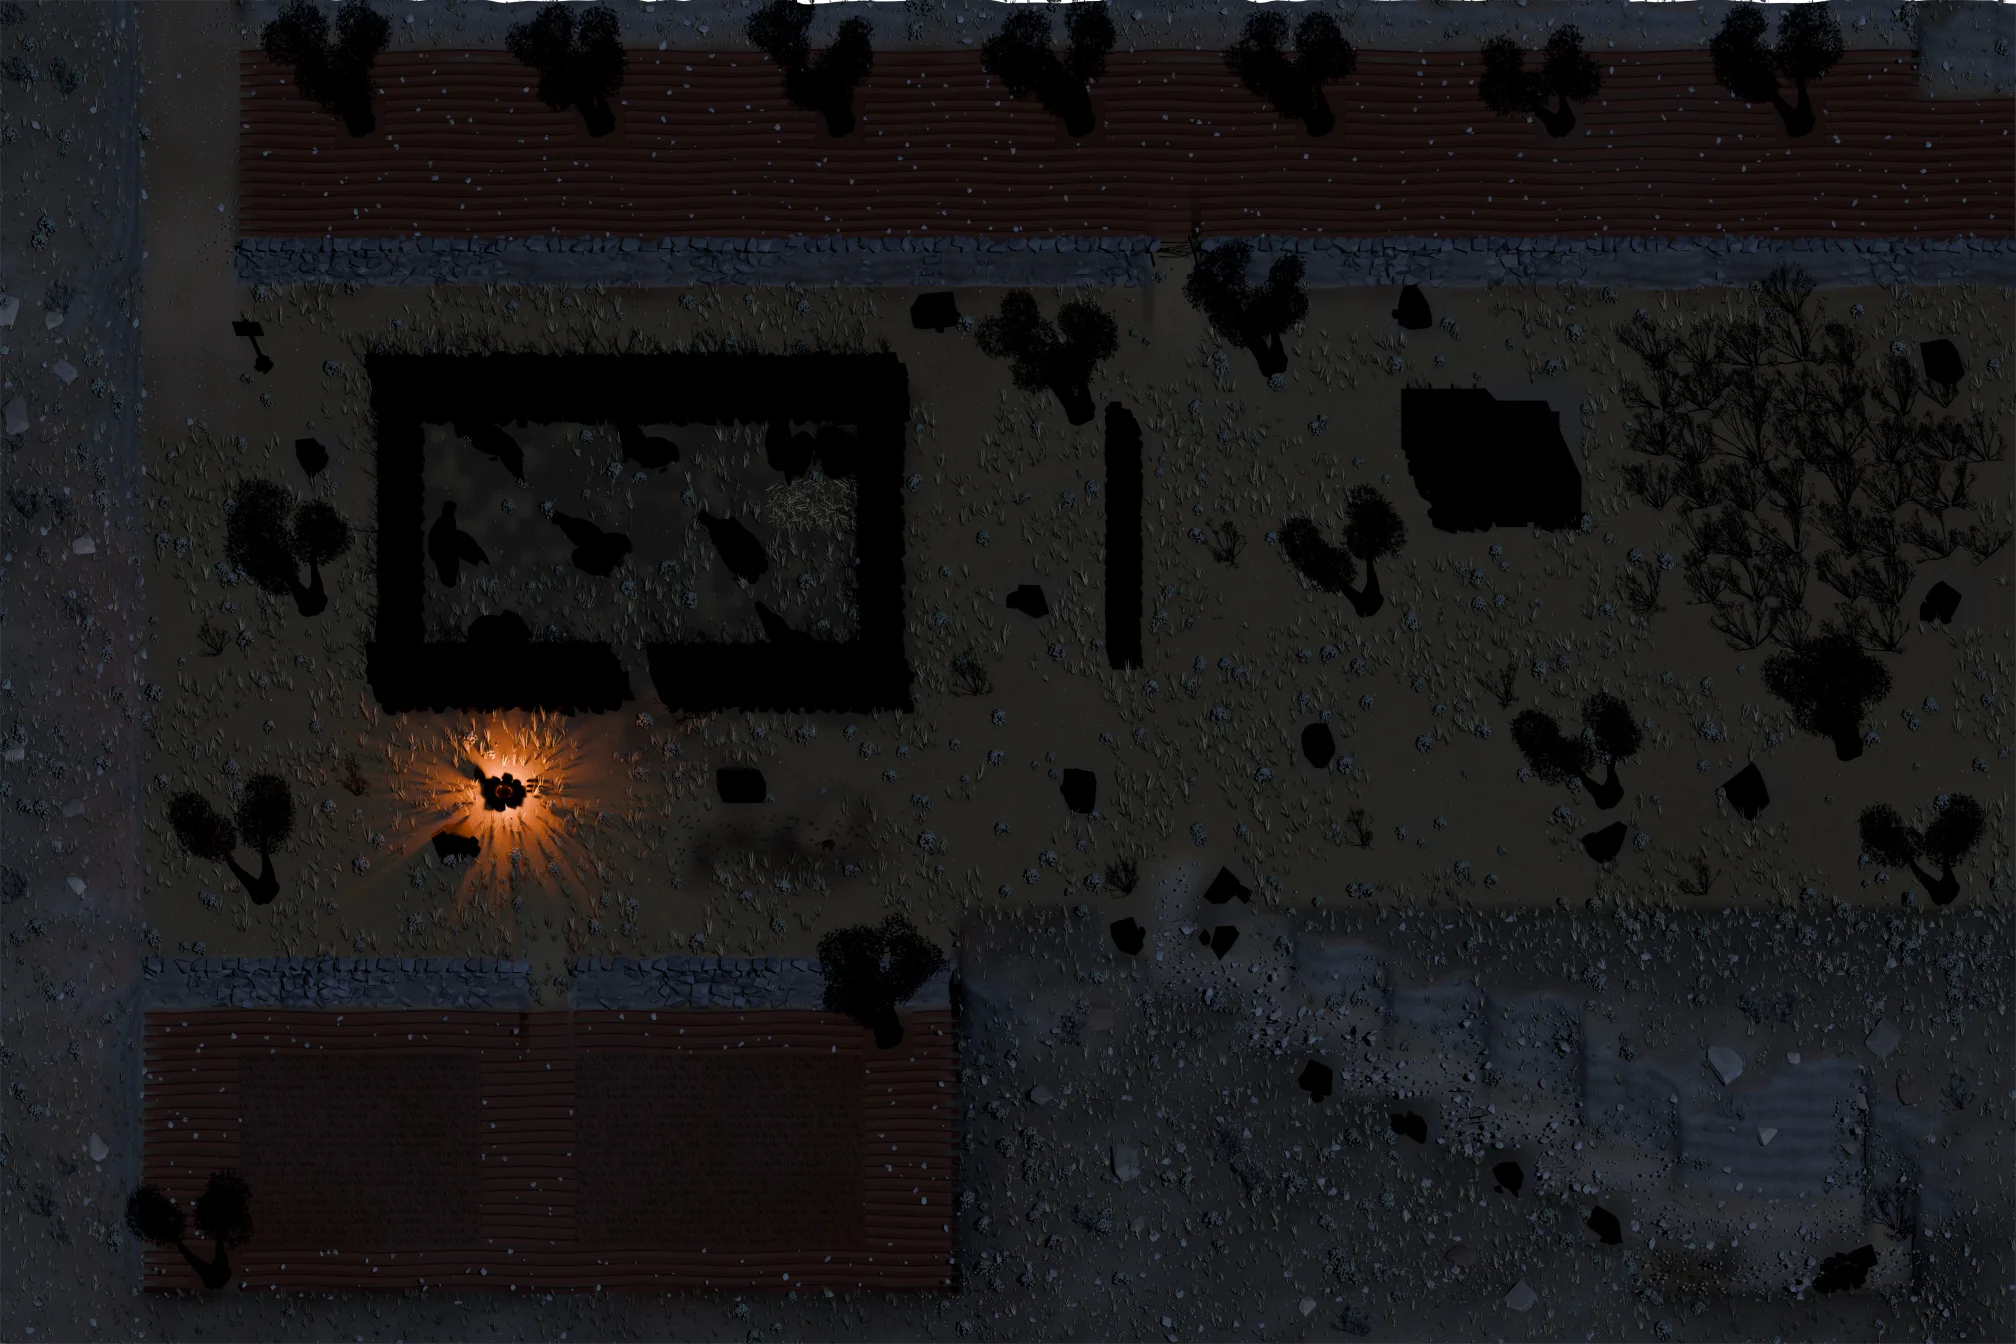
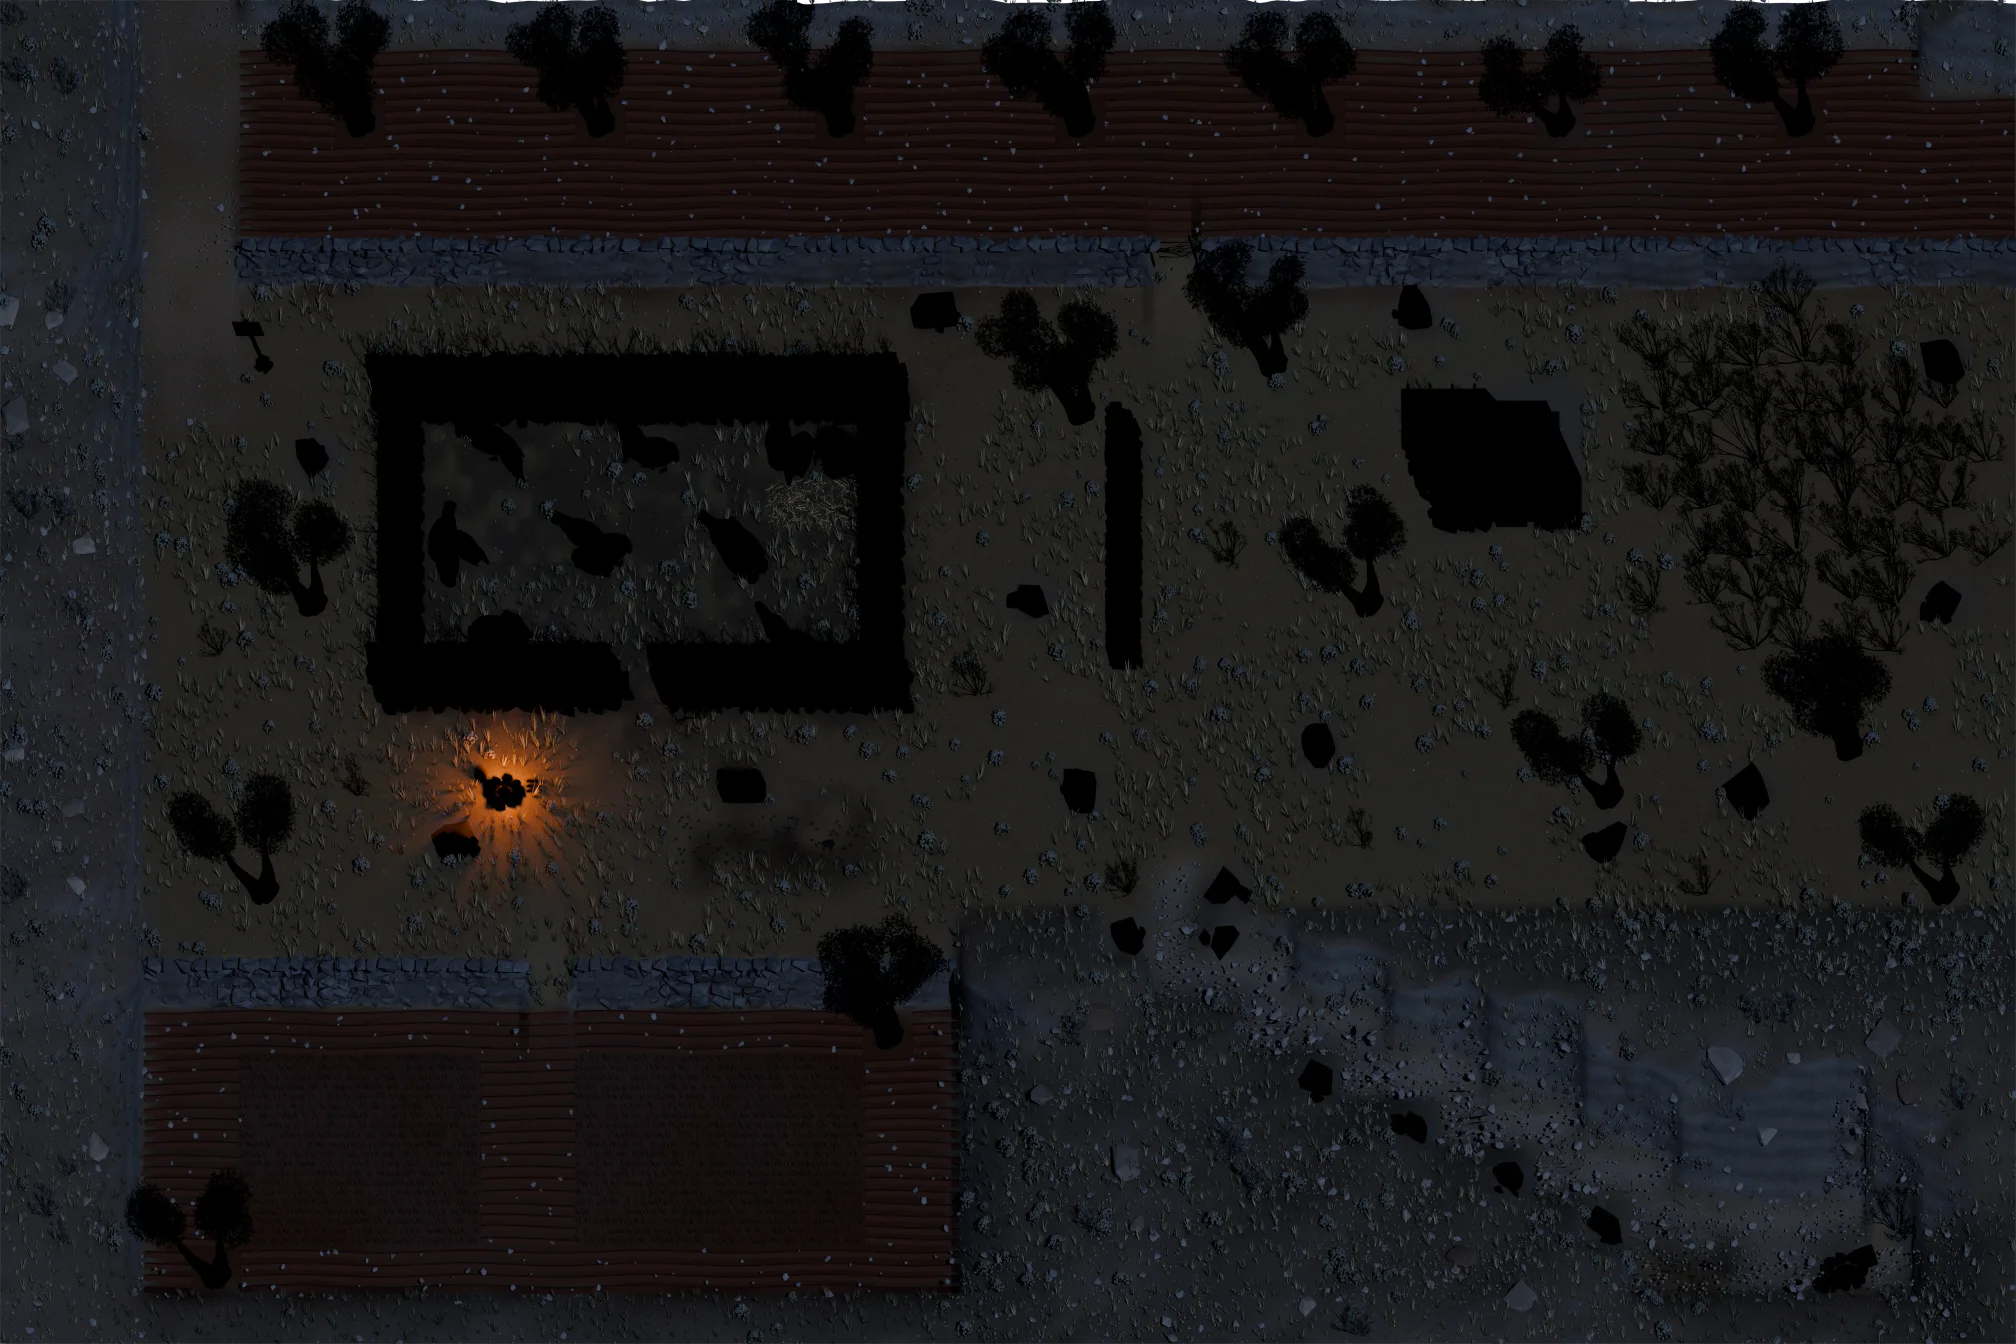
fix(art): a dimmer night fire in the shepherds' fields
The campfire's light was baked at night's exposure (+2.2 EV), so its ring of
stones glowed almost white and runtime bloom added more. Night now has its own
fire: a 55 W light set higher and as wide as the flames, dimmer flames and
embers, and soot-blackened stones, each tagged with the lights it belongs to.
Re-rendered the fields' night set only; the day set is unchanged.

Changed region(s): [[0.1875, 0.5312, 0.3125, 0.6562]]

diff --git a/tools/art/lib/kit_village.py b/tools/art/lib/kit_village.py
@@ -2082,12 +2082,17 @@ class VillageKit:
             c = self.P(x + 0.5, y + 0.5)
             objs = []
             stone = field_rock("#8a8272", "fire-stone", lichen=0.0, dark=0.35)
+            # At night the ring is seen by the fire alone, at night's brighter
+            # exposure: stones blackened by years of fires (their faces turned
+            # to it sooty), so the firelight on them reads orange, not white.
+            sooty = field_rock("#4a4540", "fire-stone-sooted", lichen=0.0, dark=0.6)
             for k in range(10):
                 a = math.tau * k / 10 + rng.random() * 0.2
                 s = 0.08 + rng.random() * 0.05
-                objs.append(self.boulder(f"{name}-ring{k}", c + Vector((math.cos(a) * 0.33, math.sin(a) * 0.27, 0.0)), (s, s * 0.85, s * 0.7), stone, k * 2.7 + x, flat=0.6, sink=0.3))
+                ring = self.boulder(f"{name}-ring{k}", c + Vector((math.cos(a) * 0.33, math.sin(a) * 0.27, 0.0)), (s, s * 0.85, s * 0.7), stone, k * 2.7 + x, flat=0.6, sink=0.3)
+                objs += self._by_light(ring, sooty)
             objs.append(self._ellipsoid(f"{name}-ash", c + Vector((0, 0, 0.005)), (0.3, 0.24, 0.02), M.plain("#7a746c", 0.95), 20, 6))
-            objs.append(self._ellipsoid(f"{name}-coals", c + Vector((0, 0, 0.02)), (0.18, 0.14, 0.04), embers(16.0), 20, 8))
+            objs += self._by_light(self._ellipsoid(f"{name}-coals", c + Vector((0, 0, 0.02)), (0.18, 0.14, 0.04), embers(16.0), 20, 8), embers(6.0))
             char = charred()
             for k in range(6):
                 a = math.tau * k / 6 + rng.random() * 0.3
@@ -2095,11 +2100,13 @@ class VillageKit:
                 p1 = c + Vector((math.cos(a) * 0.03, math.sin(a) * 0.03, 0.14 + rng.random() * 0.06))
                 objs.append(self._branch(f"{name}-stick{k}", p0, p1, 0.026, 0.018, char, 8, bow=0.01))
                 # The burning ends glow.
-                objs.append(self._ellipsoid(f"{name}-glow{k}", p0.lerp(p1, 0.85), (0.03, 0.03, 0.03), embers(24.0), 8, 6))
+                objs += self._by_light(self._ellipsoid(f"{name}-glow{k}", p0.lerp(p1, 0.85), (0.03, 0.03, 0.03), embers(24.0), 8, 6), embers(9.0))
             for k, (dx, dy, h, r) in enumerate(((0.0, 0.0, 0.34, 0.07), (0.07, 0.03, 0.24, 0.05), (-0.06, -0.02, 0.27, 0.05), (0.03, -0.06, 0.2, 0.04), (-0.04, 0.05, 0.18, 0.04))):
                 f = self._flame(f"{name}-flame{k}", c + Vector((dx, dy, 0.06)), h, r)
                 f.data.transform(Matrix.Translation(c + Vector((dx, dy, 0.06))) @ Matrix.Rotation(k * 0.7, 4, "Z") @ Matrix.Translation(-(c + Vector((dx, dy, 0.06)))))
-                objs.append(f)
+                # By night a dimmer flame: at night's exposure the day's
+                # burns white; this one keeps its yellow core and orange tips.
+                objs += self._by_light(f, flame(8.0))
             # Firewood stacked beside, and a pot on its stones.
             wood = M.bark("#6a5a46")
             for k in range(5):
@@ -2108,12 +2115,30 @@ class VillageKit:
             pot = self._lathe(f"{name}-pot", [(0.06, 0), (0.12, 0.05), (0.14, 0.12), (0.1, 0.19), (0.1, 0.21)], c + Vector((-0.44, 0.28, 0.0)), M.terracotta("#3e3028", 0.05), 20)
             objs.append(pot)
             self.sprite(name, y + 0.85, objs, [(x, y)])
-            main = self.add_light(f"{name}-light", "POINT", c + Vector((0, 0, 0.32)), 150.0, "#ff9040", radius=0.12)
-            low = self.add_light(f"{name}-coal-light", "POINT", c + Vector((0, -0.05, 0.1)), 40.0, "#ff6a28", radius=0.2)
-            _ = (main, low)
-            # Its glow is baked in (and at night's exposure it is bright): the
-            # game's flickering pool over it is gentle, or the ring goes white.
+            # Its light. By day a strong one (the sun is stronger still); at
+            # night, rendered 2.2 EV brighter, a separate, dimmer fire: set a
+            # little higher and as wide as the flames (soft shadows, a flatter
+            # falloff), so the stones beside it don't blow out while the
+            # ground round it still takes a warm pool.
+            tag(self.add_light(f"{name}-light", "POINT", c + Vector((0, 0, 0.32)), 150.0, "#ff9040", radius=0.12), "day,late")
+            tag(self.add_light(f"{name}-coal-light", "POINT", c + Vector((0, -0.05, 0.1)), 40.0, "#ff6a28", radius=0.2), "day,late")
+            tag(self.add_light(f"{name}-light-night", "POINT", c + Vector((0, 0, 0.42)), 55.0, "#ff9446", radius=0.22), NIGHT)
+            tag(self.add_light(f"{name}-coal-light-night", "POINT", c + Vector((0, -0.05, 0.12)), 7.0, "#ff6a28", radius=0.2), NIGHT)
+            # Its glow is baked in: the game's flickering pool over it is gentle.
             self.flicker.append(("hearth", (x + 0.5) * 32, (y + 0.3) * 32, 110.0, ["day", "late", "night"], 0.25))
+
+    def _by_light(self, obj, night_mat):
+        """A thing of the fire as it is by day (its own material) and a copy
+        of it for the night (`night_mat`: dimmer embers and flames, sooty
+        stone), each tagged with the lights it belongs to."""
+        twin = obj.copy()
+        twin.data = obj.data.copy()
+        twin.name = f"{obj.name}-night"
+        twin.data.materials.clear()
+        twin.data.materials.append(night_mat)
+        for c in obj.users_collection:
+            c.objects.link(twin)
+        return [tag(obj, "day,late"), tag(twin, NIGHT)]
 
     def rounded_block(self, name, x0, x1, y0, y1, z0, z1, mat, rng, roundness=0.3):
         """A hewn block of stone with rounded edges and corners (a

diff --git a/docs/art/technical-art-guide.md b/docs/art/technical-art-guide.md
@@ -68,6 +68,8 @@ The sky is Blender's multiple-scattering sky, set for the same sun. It gives the
 
 **The night bake and the game's grade.** The game grades night on top of any art: a multiply layer (blue-grey, darker at the edges) and a post-processing grade (less saturation, a blue white balance, bloom on bright lamps). Over a night bake the multiply is gentled (`overBakedArt`: 30% strength, the vignette at most 0.42), so the art is not darkened twice but still gathers the dark round the lamps; bloom makes the fire and lamps glow. Day art shown at night (a Chapter 1 place after dark) keeps the full night. Look at a night set's ground after rendering it: once, on a GPU shared with another render, the fold's night ground came out with its terrain unlit (only the scattered grass caught the moon: a median of 1 of 255 against 29 when rendered again), and nothing else flags that.
 
+**A fire burning in day and night sets** needs its own night version. Night is rendered 2.2 EV brighter, so the day's fire (150 W a hand above the coals) blew the shepherds' ring of stones out to near white, and the game's bloom added more. The campfire (`tile_campfire` in [`kit_village.py`](../../tools/art/lib/kit_village.py)) has a separate night light (55 W, set a little higher and as wide as the flames, so its falloff is flatter and its shadows soft), and night copies of its flames and embers (a third of the emission) and of its ring (soot-blackened stone), each tagged with its lights (`_by_light`).
+
 **Rooms** are lit as if closed: their side and front walls and their roof are *occluders*, invisible to the camera but blocking light (§4). Light comes in only through the openings: the sun through a window in the east wall and through the door, plus the room's own lights (an oil lamp in a niche, the oven's embers). A room renders at +3.1 EV over the outdoor exposure, as a camera adapts, and at 512 samples (its light is mostly bounced). Two lights stand in for what the closed shell would bounce: a soft warm panel low in the doorway (daylight off the sunlit ground outside) and a broad, dim warm panel under the roof (light off the floor and walls), without which the corners go black. The cut tops of the walls sit directly under the invisible walls, so no light reaches them: they glow faintly (`limestone(glow=)`) and read as a dark section through the wall, as in an architect's cutaway. The walls that block light are thinner than their tiles (0.45 m): at 40° a sunbeam drops a whole tile crossing a tile-thick wall, which would shut the morning sun out of any window. Dust shows in the sunbeams as a thin scattering volume confined to each beam: lit straight by the sun, it settles quickly (a volume filling the room did not, and the denoiser turned its noise into blotches).
 
 **A village house** (`kit_village.py`) is lit the same way, with more openings: a hatch in the roof where the ladder goes up (a shaft of sun onto the back wall by day, of moonlight at night) and a window in the guest room's east wall. The animals' end lies 0.45 m below the family floor, its mangers standing on it. At night the room is lit only by its lamps (four niches, the table, a stand in the guest room) and the glowing oven: the bounced daylight is gone, the door is shut (its planks cut down to a stub like the walls, the whole door an occluder), and it renders at +1.2 EV over the day's room. Its cut wall tops glow less at night, or they would outshine the lamps.
